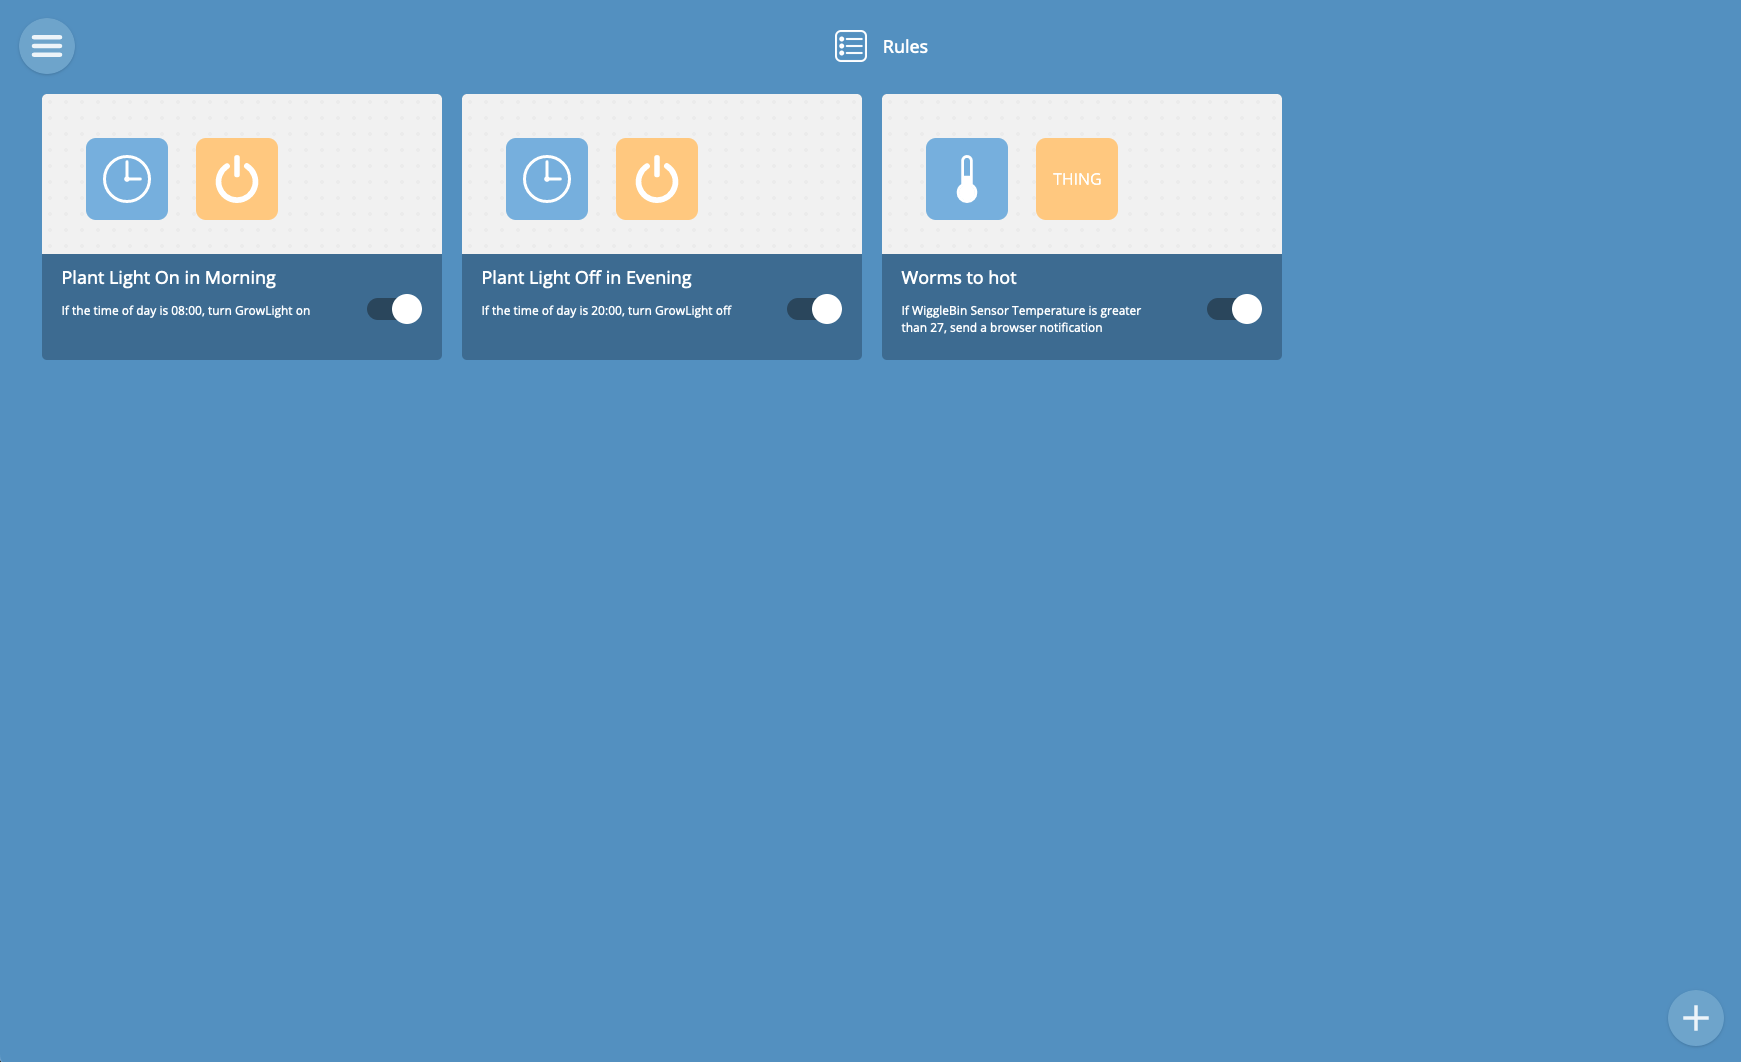
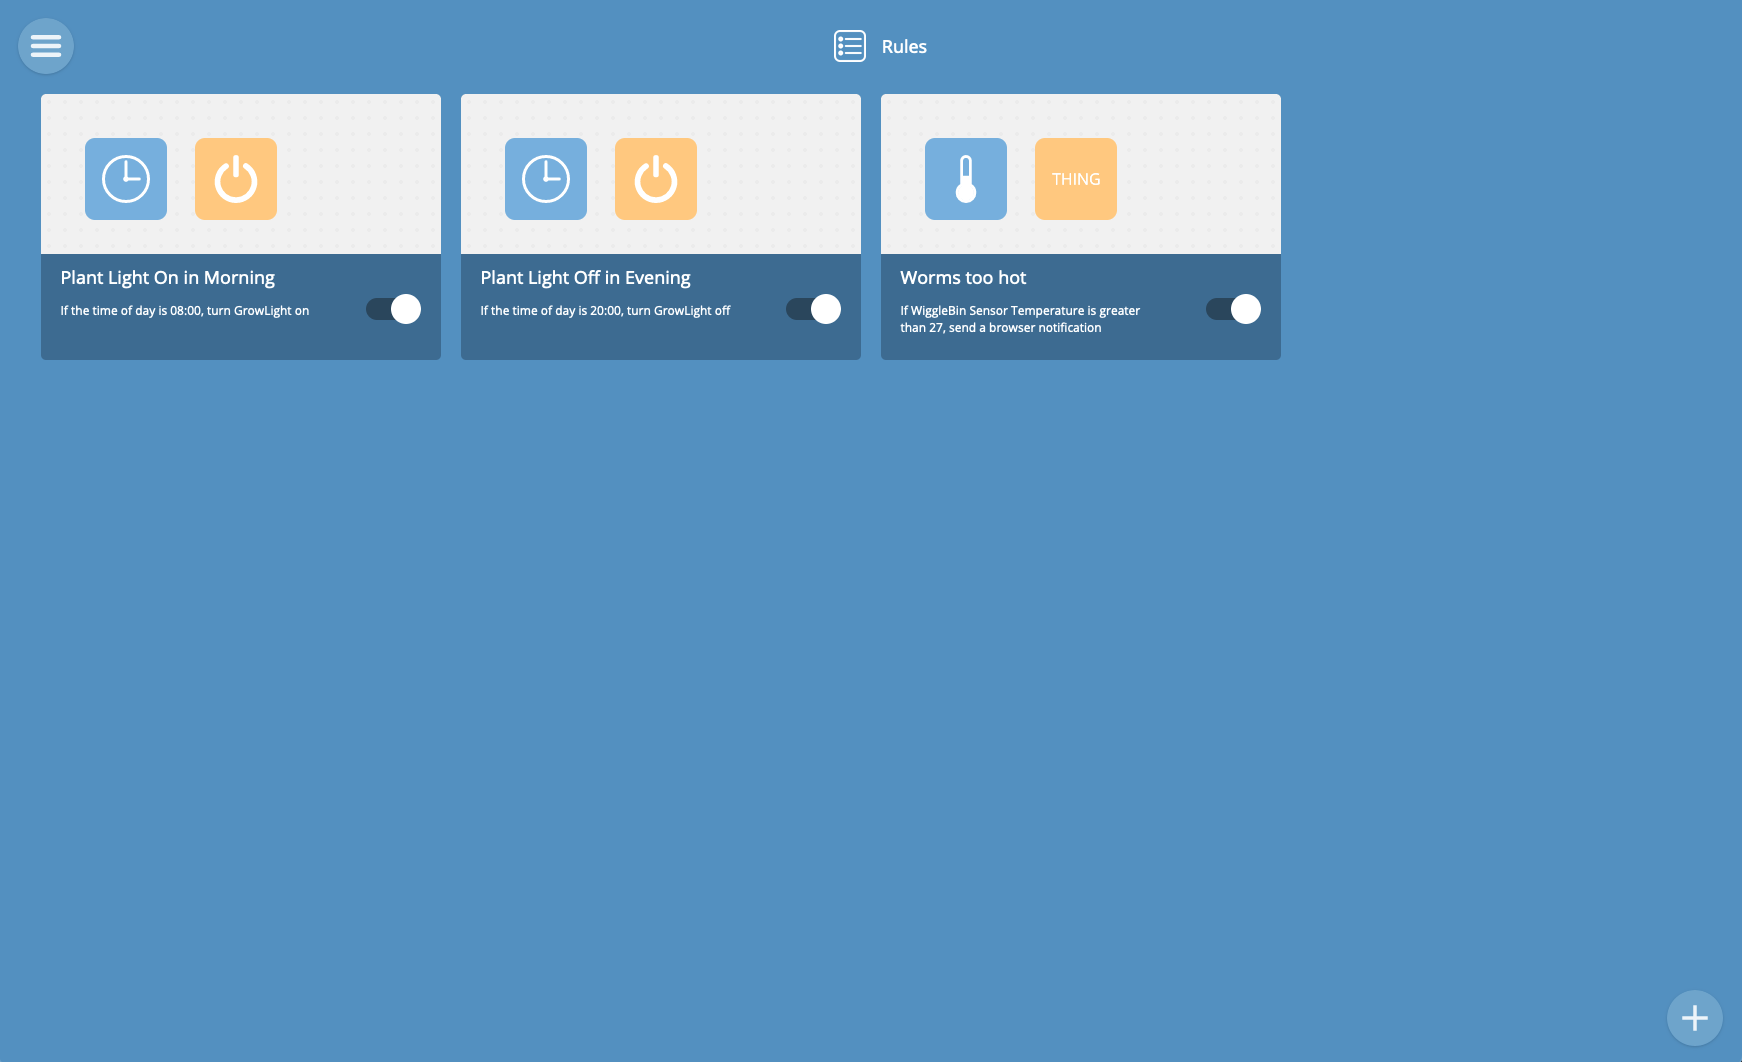
Fixed typo

diff --git a/Build-Electronics.md b/Build-Electronics.md
@@ -114,7 +114,7 @@ Drag the WiggleBin sensor to the left of the screen. Set for example the tempera
 
 Drag the browser notification to the right of the screen and write a message like 🪱 "Tooo hot! Help!".
 
-Change the Rule Name to "Worms to hot" and click on the back arrow (left top). 
+Change the Rule Name to "Worms too hot" and click on the back arrow (left top). 
 
 ![](Images/WebThings/WebThingsRuleRight.png)
 
